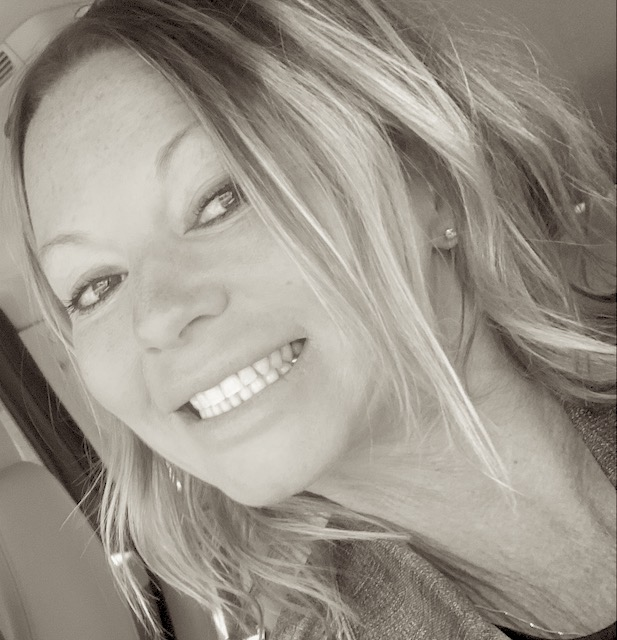
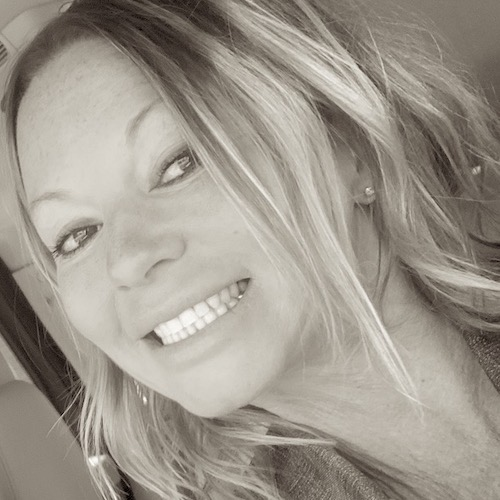
Replaced images with purchased ones

diff --git a/index.html b/index.html
@@ -13,7 +13,7 @@
     <div class="w3-top">
       <nav class="navbar w3-top">
         <div class="brand-title">
-          <a href="#"><img src="img/ch_logo_sm.png" alt="brand logo" /></a>
+          <a href="#"><img src="img/ch_logo.png" width="40" alt="brand logo" /></a>
         </div>
 
         <a href="#" class="toggle-button" alt="scroll to top of page">
@@ -43,7 +43,7 @@
     <!-- Showcase -->
     <section>
       <div id="showcase" class="w3-container w3-center w3-animate-opacity">
-        <div><img src="img/ch_logo_text.png" alt="Choozing Happy Logo" /></div>
+        <div><img src="img/ch_banner.svg" width="230" alt="Choozing Happy Logo" /></div>
         <p class="w3-sans-serif">INTUITIVE GUIDANCE &nbsp; &#183; &nbsp; ENERGY HEALING &nbsp; &#183; &nbsp; MINDFULNESS</p>
       </div>
     </section>
@@ -54,7 +54,7 @@
         <!-- <h2>Hi</h2> -->
         <div class="w3-row">
           <div class="w3-third">
-            <img src="img/hi-istockphoto-1092443962-450x450.jpg" alt="Hello image" />
+            <img src="img/home.jpg" width="500" alt="Hello image" />
           </div>
 
           <div class="w3-twothird">
@@ -92,7 +92,7 @@
       <div class="w3-container">
         <div class="w3-row">
           <div class="w3-third w3-image">
-            <img src="img/jill.jpg" alt="Jill" />
+            <img src="img/jill.jpg" width="500" alt="Jill" />
           </div>
 
           <div class="w3-twothird w3-center">
@@ -150,7 +150,7 @@
       <div class="w3-container w3-center">
         <div class="w3-row">
           <div class="w3-third">
-            <img src="img/chdice_istockphoto-1151928476-1024x1024.jpg" alt="Dice image" />
+            <img src="img/choozingHappy.jpg" width="500" alt="Smiley Dice image" />
           </div>
           <div class="w3-twothird w3-center">
             <i class="fa fa-smile-o"></i>
@@ -199,7 +199,7 @@
       <div class="w3-container">
         <div class="w3-row">
           <div class="w3-third">
-            <img src="img/sessionsheartsstring-istockphoto-1206461872-1024x1024.jpg" alt="Hearts image" />
+            <img src="img/sessions.jpg" width="500" alt="Hearts image" />
           </div>
           <div class="w3-twothird w3-center">
             <i class="fa fa-comments-o"></i>
@@ -238,7 +238,7 @@
       <div class="w3-container">
         <div class="w3-row">
           <div class="w3-third">
-            <img src="img/contactus-istockphoto-1035672660-1024x1024.jpg" alt="Image of a telephone" />
+            <img src="img/contact.jpg" width="500" alt="Image of an envelope" />
           </div>
           <div class="w3-twothird w3-center">
             <i class="fa fa-envelope-o"></i>
@@ -246,7 +246,7 @@
             <span class="w3-left-align">
               <p>
                 If you have any questions, comments or would like to schedule a session, please contact me via email.
-                <a href="mailto:contact@ChooozingHappy.com?subject=From website">Email Me</a>
+                <a href="mailto:jill@chooozinghappy.com?subject=Enquiry%20from%20Choozing%20Happy%20website">Email Me</a>
               </p>
             </span>
           </div>
@@ -259,7 +259,7 @@
       <div class="w3-container">
         <div class="w3-row">
           <div class="w3-third">
-            <img src="img/charges2-istockphoto-157672734-1024x1024.jpg" alt="Piggy Bank Image" />
+            <img src="img/charges.jpg" width="500" alt="Piggy Bank Image" />
           </div>
           <div class="w3-twothird w3-center">
             <i class="fa fa-gbp"></i>

diff --git a/css/style.css b/css/style.css
@@ -81,7 +81,7 @@ body {
 #showcase p {
     margin: 0px;
     padding-top: 20px;
-    font-size: 16px;
+    font-size: 12px;
     color:#314754;
 }
 
